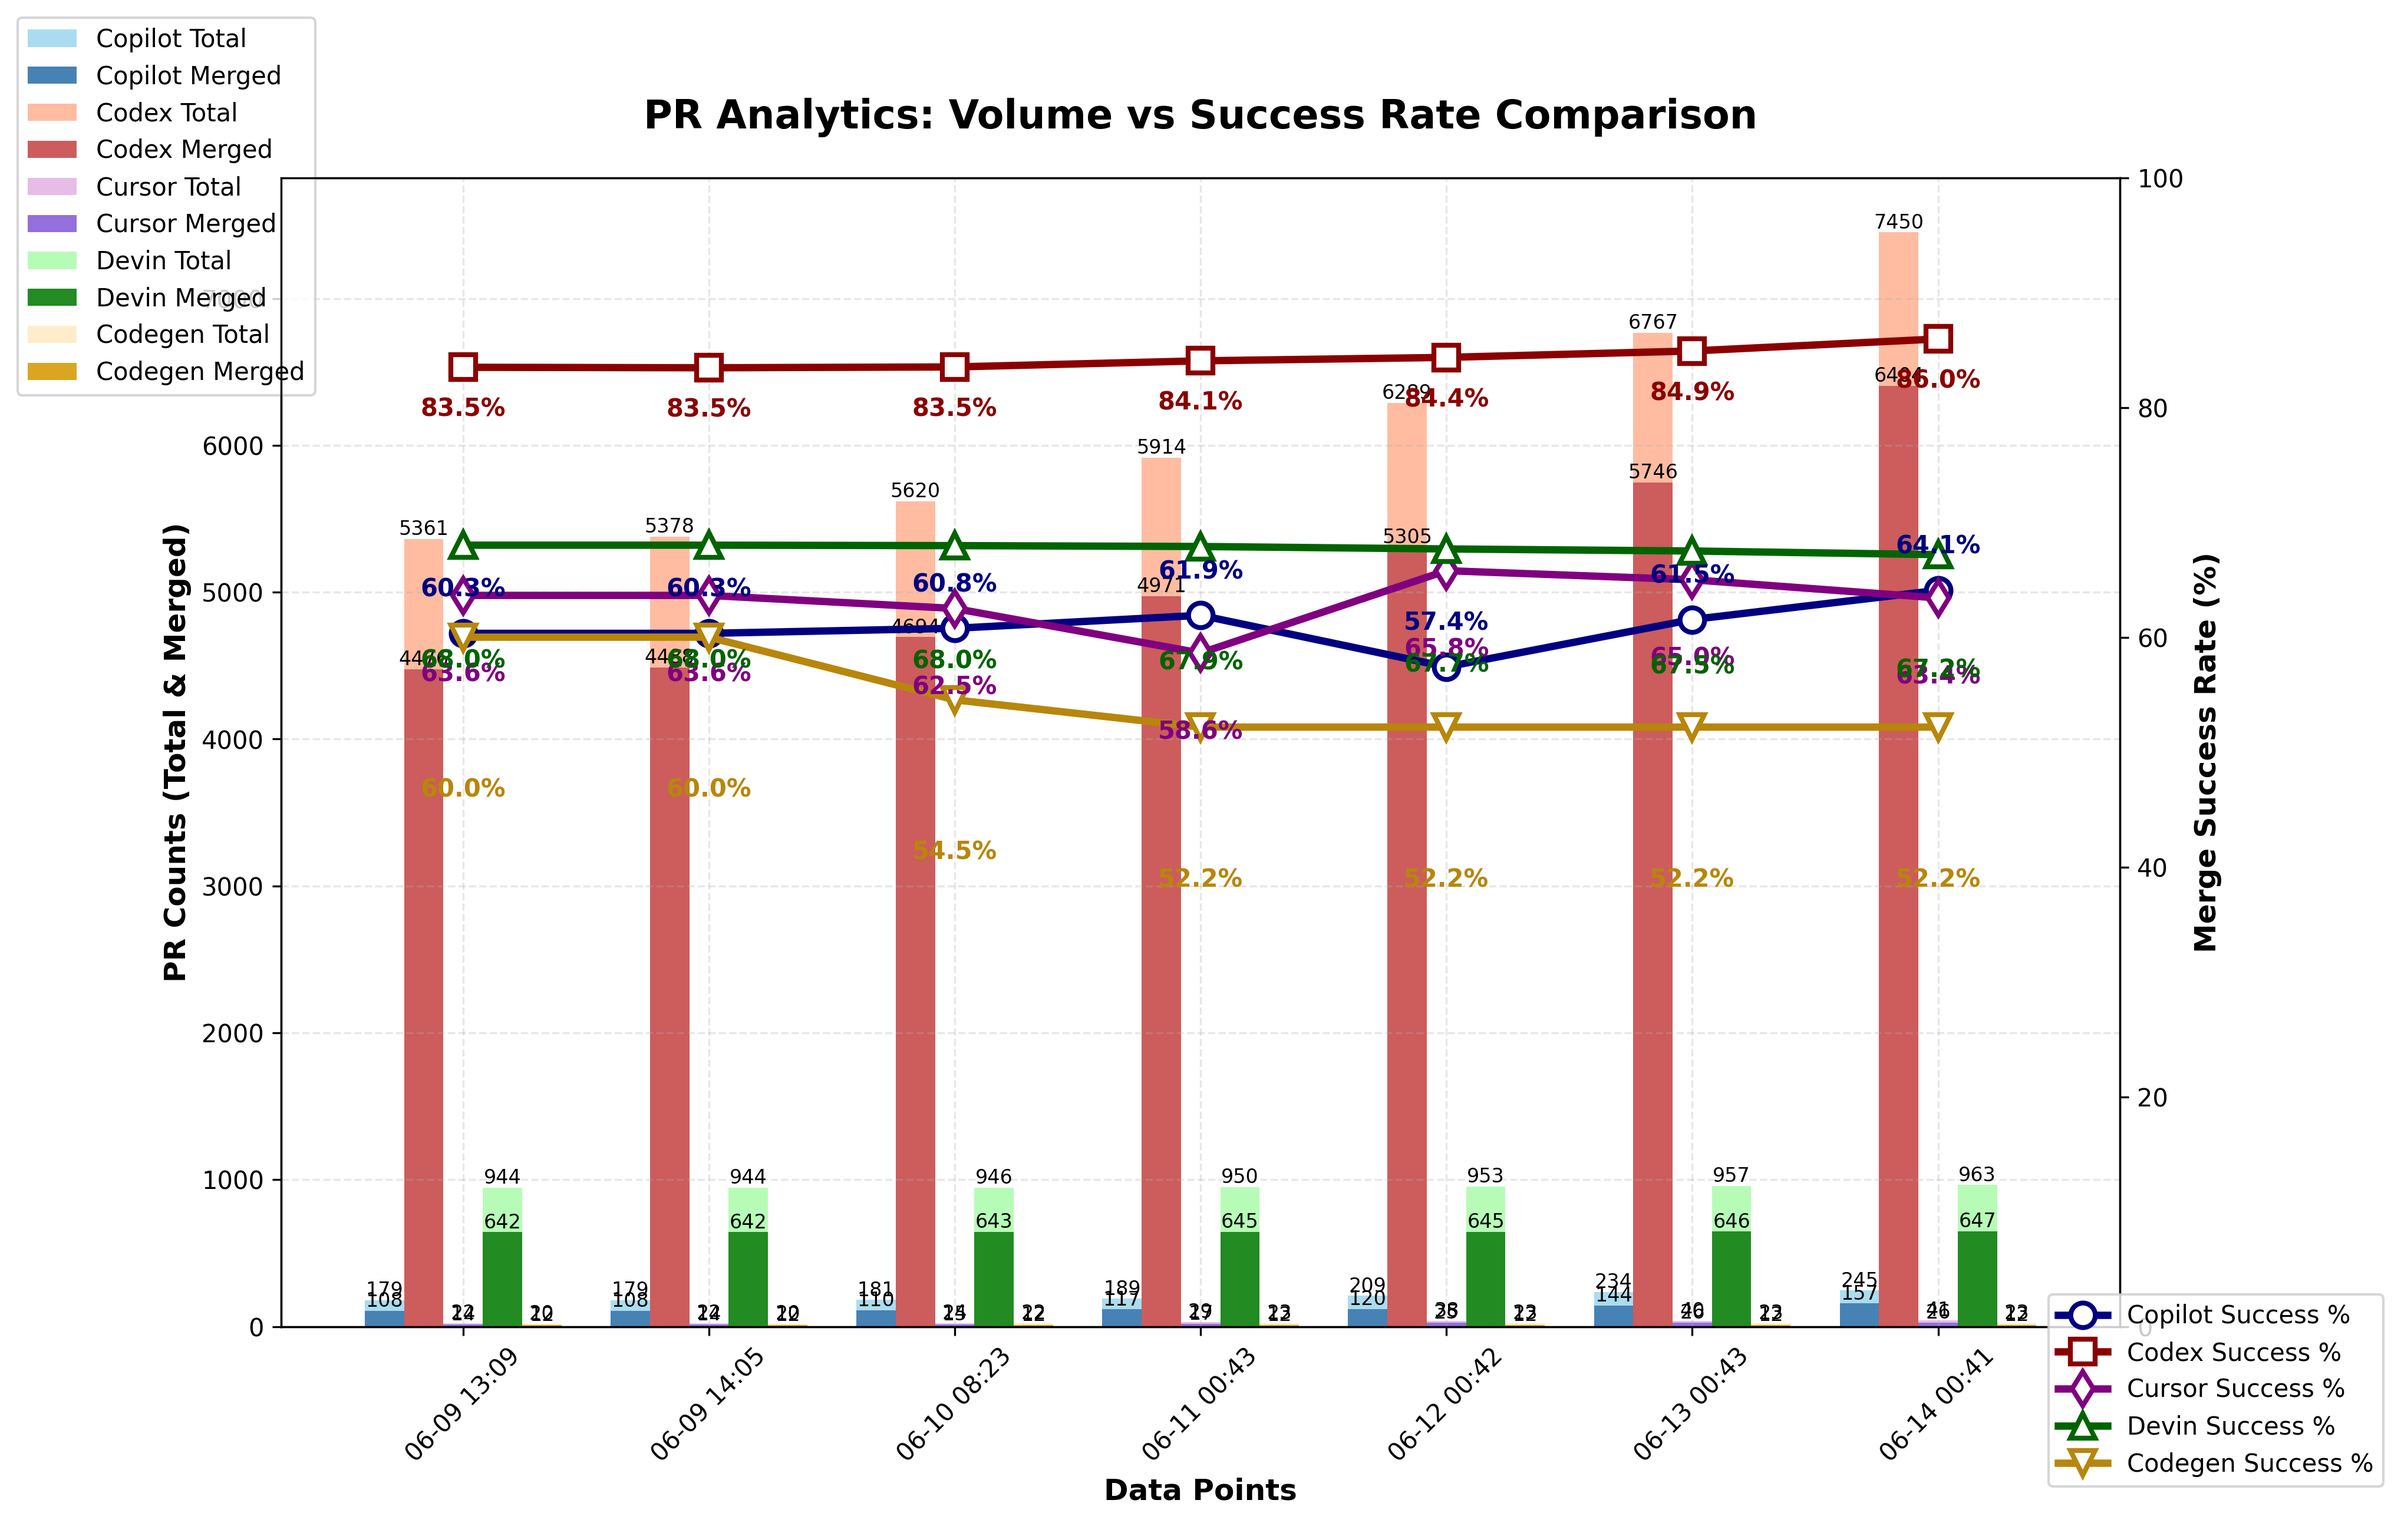
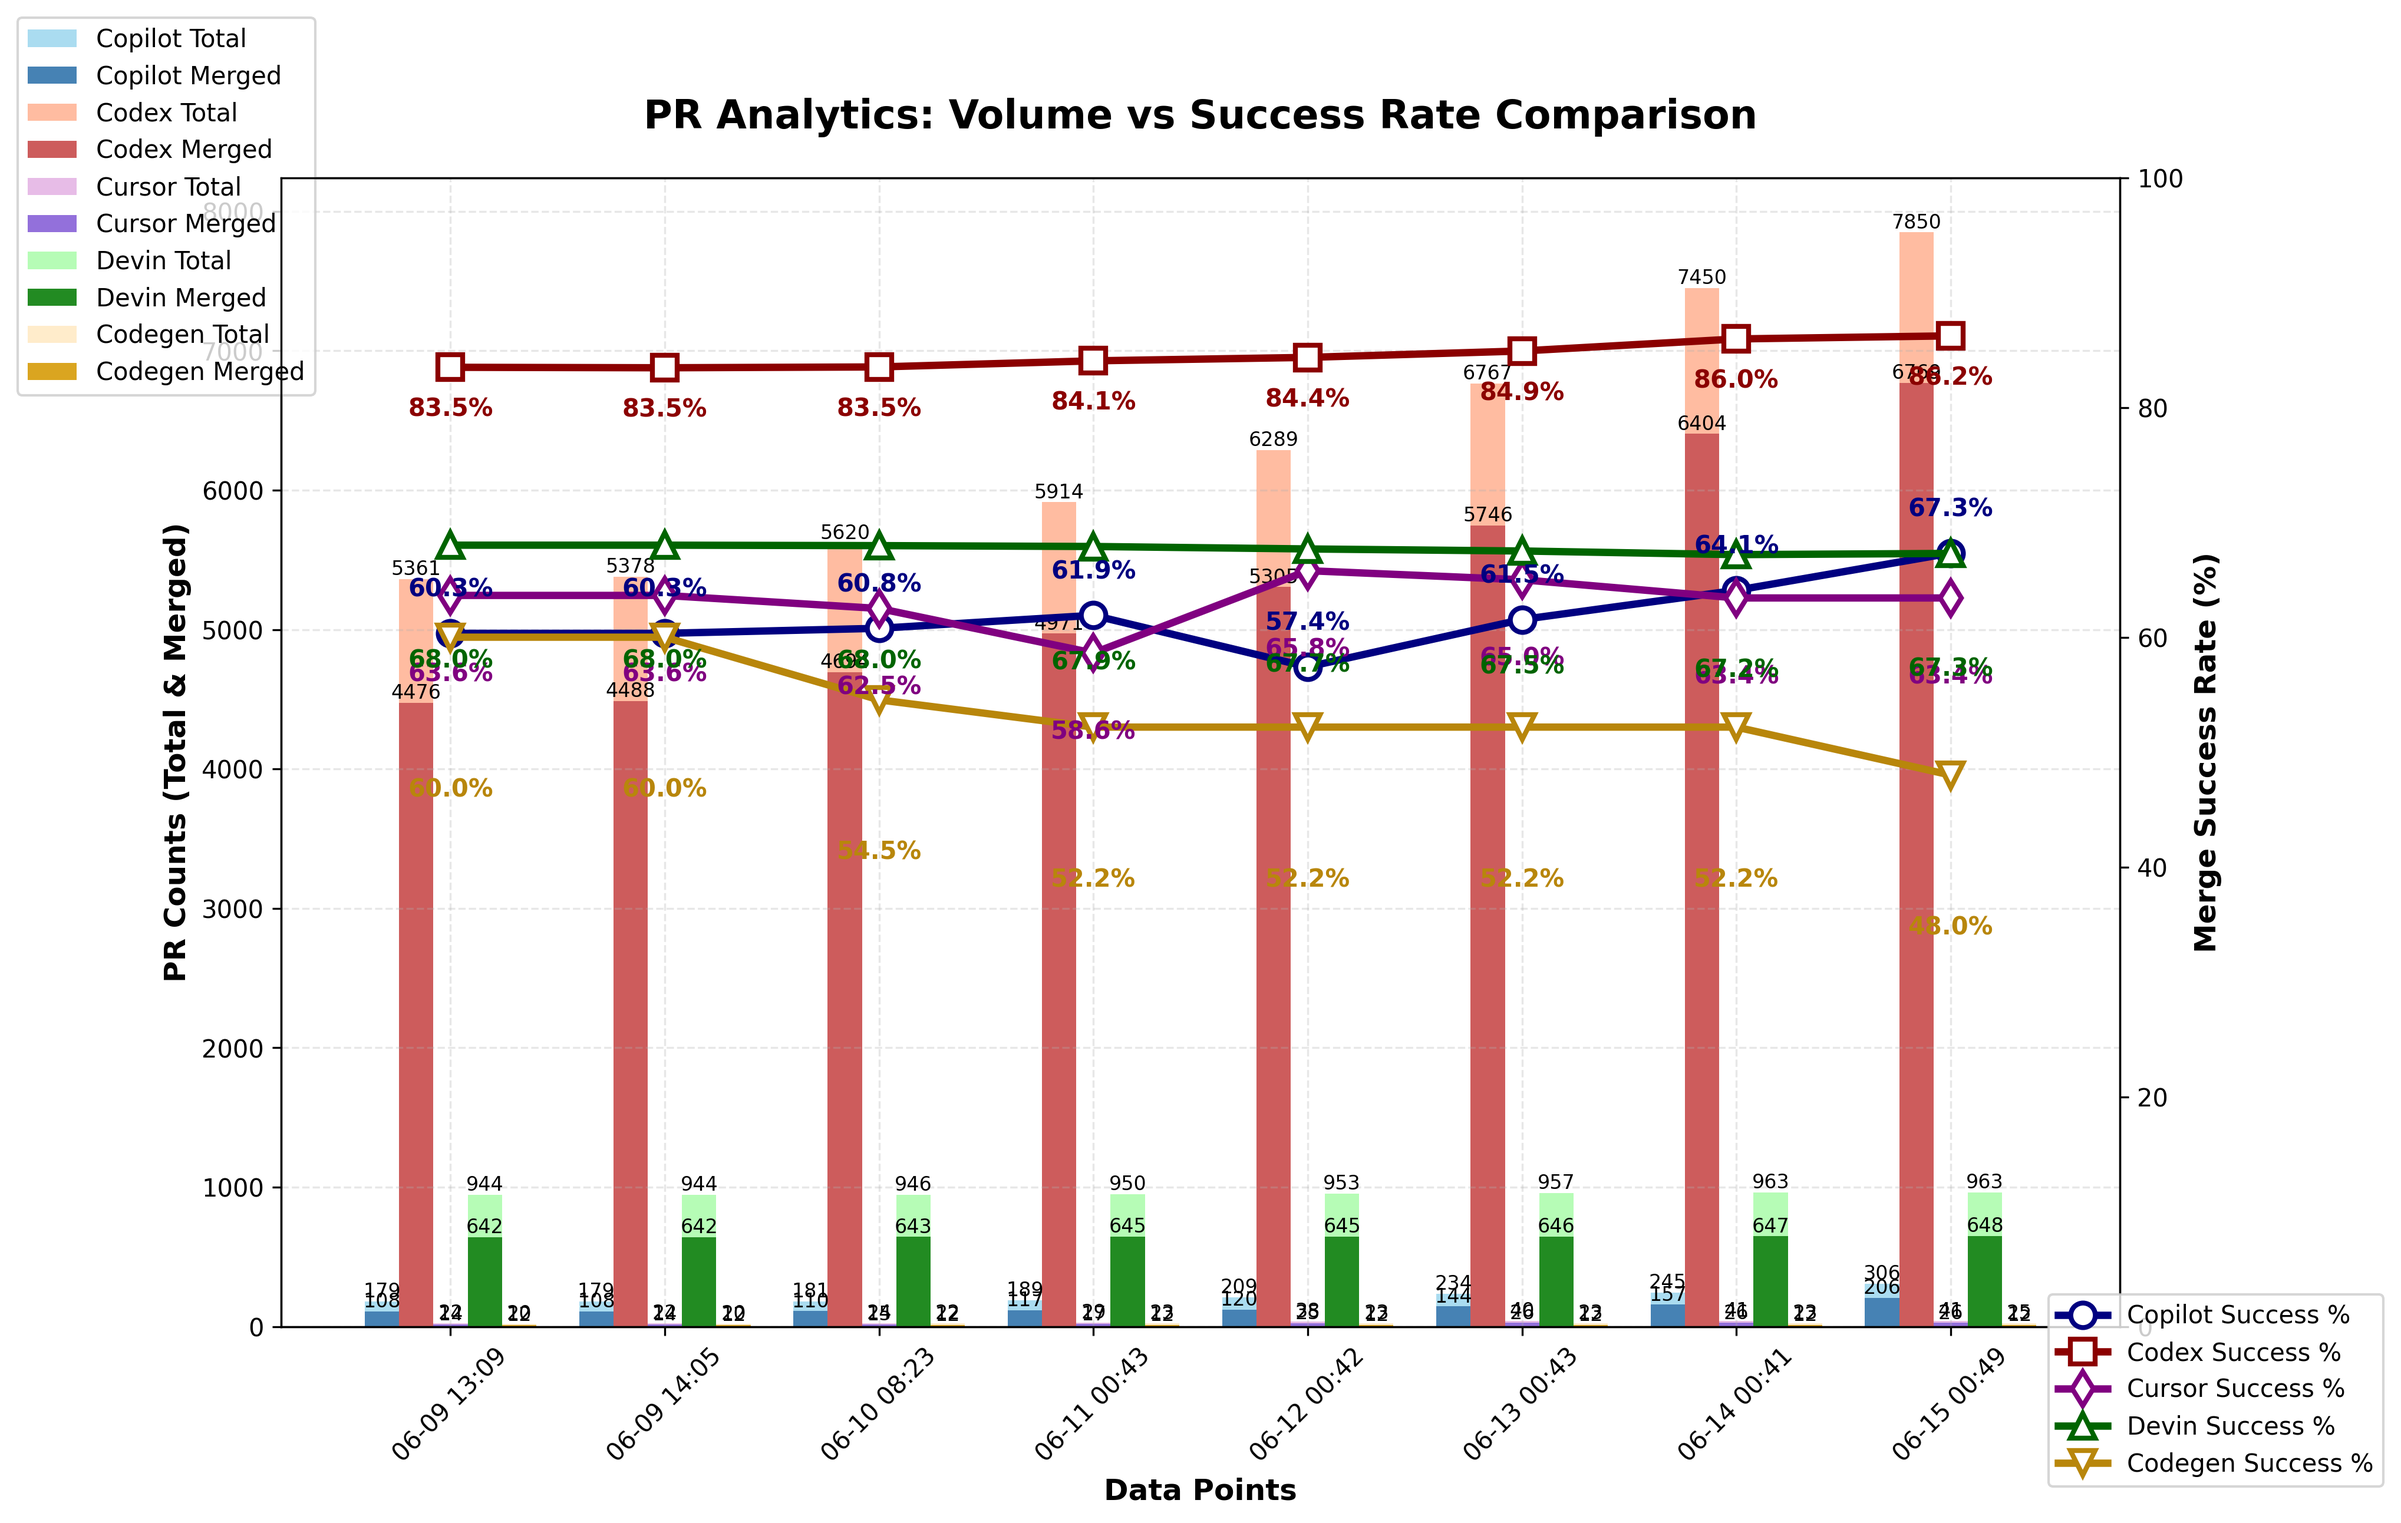
chore: update PR‑approval chart

diff --git a/docs/index.html b/docs/index.html
@@ -213,7 +213,7 @@
 
     <footer>
       <p>
-        Last updated: <span id="last-updated">June 14, 2025 00:41 UTC</span>
+        Last updated: <span id="last-updated">June 15, 2025 00:49 UTC</span>
       </p>
       <p>
         <a href="https://github.com/hovancik/ai-pr-watcher-rust">View on GitHub</a>

diff --git a/README.md b/README.md
@@ -27,8 +27,8 @@ Explore the GitHub search queries used:
 
 | Project | Total PRs | Merged PRs | Merge Rate |
 | ------- | --------- | ---------- | ---------- |
-| Copilot | 245 | 157 | 64.08% |
-| Codex   | 7,450 | 6,404 | 85.96% |
+| Copilot | 306 | 206 | 67.32% |
+| Codex   | 7,850 | 6,769 | 86.23% |
 | Cursor  | 41 | 26 | 63.41% |
-| Devin   | 963 | 647 | 67.19% |
-| Codegen | 23 | 12 | 52.17% |
+| Devin   | 963 | 648 | 67.29% |
+| Codegen | 25 | 12 | 48.00% |
